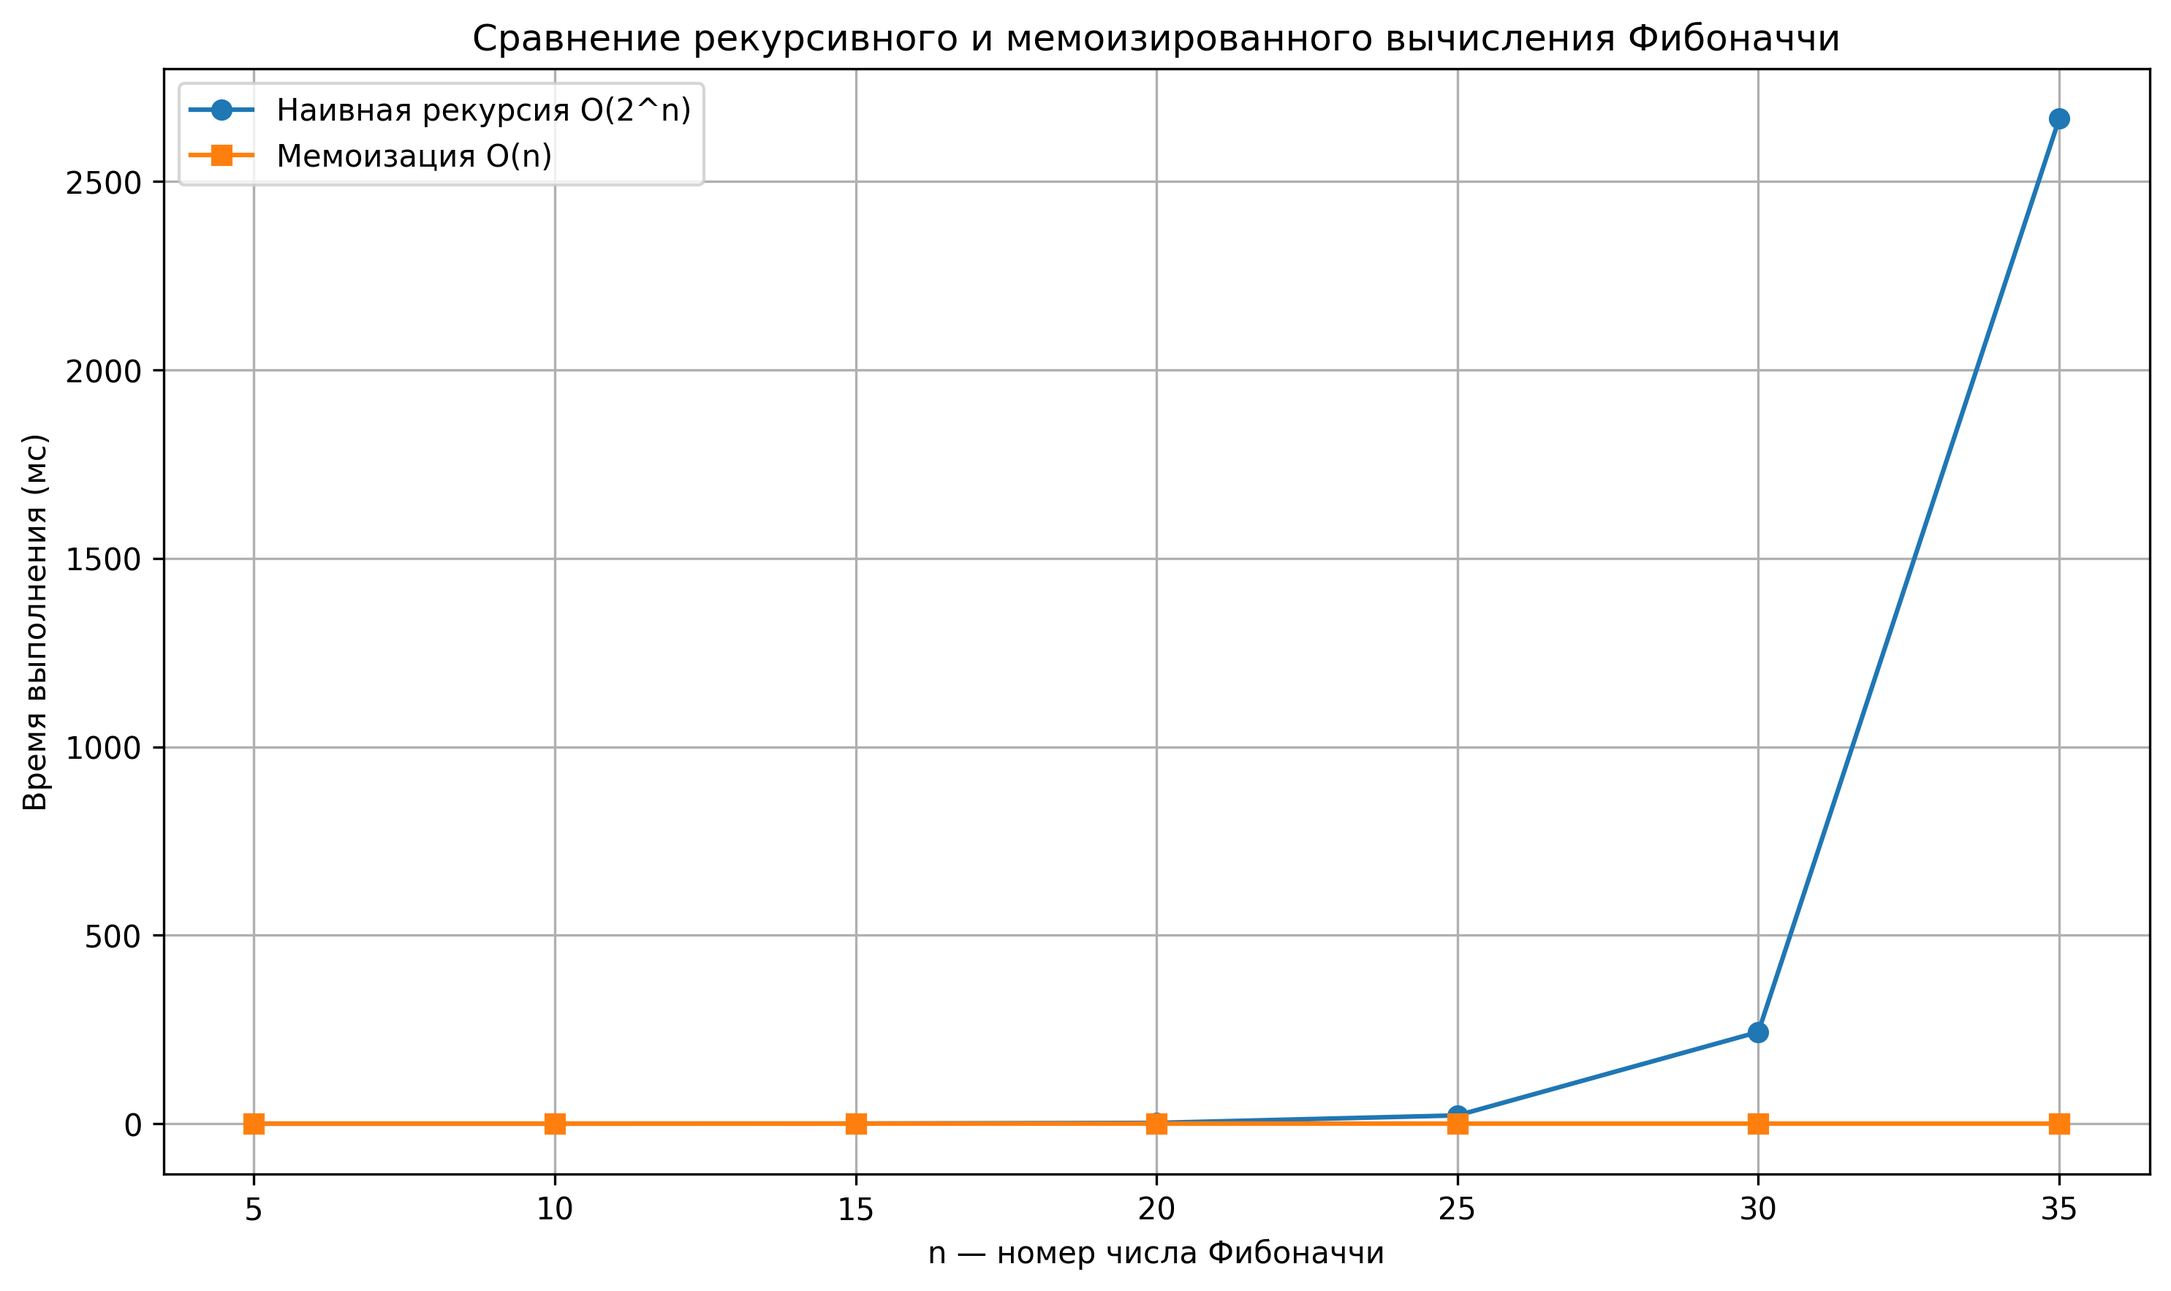
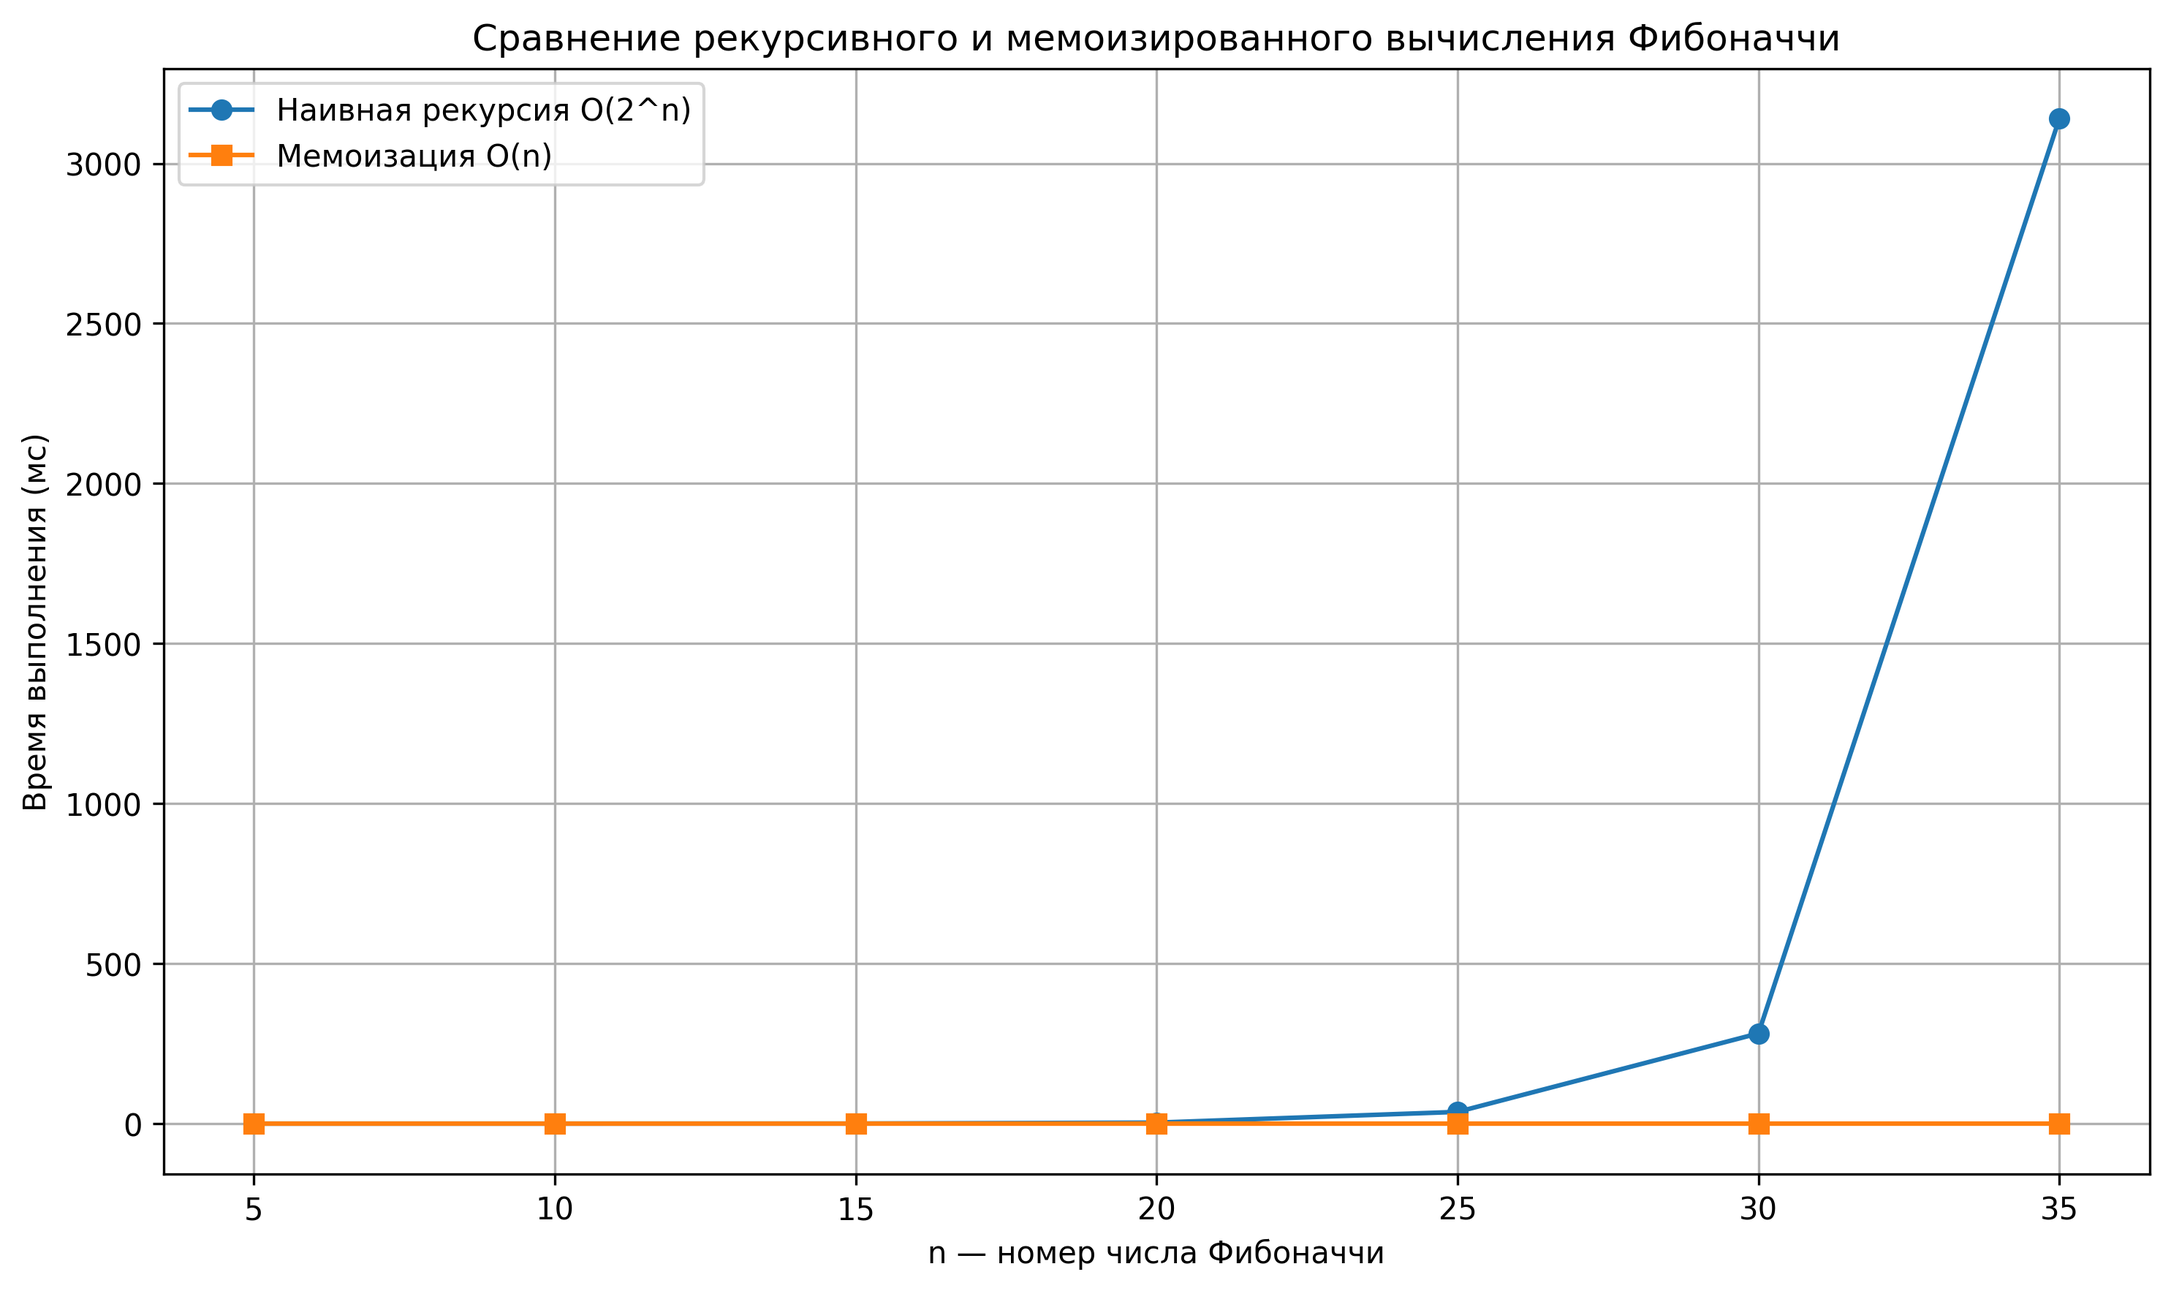
add readme

diff --git a/lab03/src/recursion_tasks.py b/lab03/src/recursion_tasks.py
@@ -1,0 +1,86 @@
+import os
+
+
+def binary_search_recursive(arr: list, target: int, left: int = 0, right: int = None) -> int:
+    """
+    Рекурсивный бинарный поиск элемента в отсортированном массиве.
+
+    Сложность: O(log n)
+    Глубина рекурсии: O(log n)
+    """
+    if right is None:
+        right = len(arr) - 1
+
+    if left > right:
+        return -1
+
+    mid = (left + right) // 2
+    guess = arr[mid]
+
+    if guess == target:
+        return mid
+    elif guess > target:
+        return binary_search_recursive(arr, target, left, mid - 1)
+    else:
+        return binary_search_recursive(arr, target, mid + 1, right)
+
+
+def traverse_directory(path: str, indent: int = 0):
+    """
+    Рекурсивный обход файлов и папок, начиная с указанного пути.
+    Выводит древовидную структуру каталога.
+
+    Сложность: O(n), где n — количество файлов/папок
+    Глубина рекурсии: равна глубине вложенности директорий
+    """
+    if not os.path.exists(path):
+        print("Путь не найден:", path)
+        return
+
+    items = os.listdir(path)
+
+    for item in items:
+        full_path = os.path.join(path, item)
+        print(" " * indent + ("📂 " if os.path.isdir(full_path) else "📄 ") + item)
+        if os.path.isdir(full_path):
+            traverse_directory(full_path, indent + 4)
+
+
+def hanoi(n: int, source: str, target: str, auxiliary: str, moves: list = None) -> list:
+    """
+    Рекурсивное решение задачи Ханойских башен.
+    Перемещает n дисков с source на target, используя auxiliary как вспомогательный стержень.
+
+    Сложность: O(2^n)
+    Глубина рекурсии: O(n)
+    """
+    if moves is None:
+        moves = []
+
+    if n == 1:
+        moves.append(f"Переместить диск 1 со стержня {source} на стержень {target}")
+        return moves
+
+    hanoi(n - 1, source, target, auxiliary, moves)
+    moves.append(f"Переместить диск {n} со стержня {source} на стержень {target}")
+    hanoi(n - 1, source, target, auxiliary, moves)
+
+    return moves
+
+
+if __name__ == "__main__":
+    print("Рекурсивный бинарный поиск:")
+    data = [1, 3, 5, 7, 9, 11, 13, 15]
+    target = 7
+    index = binary_search_recursive(data, target)
+    print(f"Искомый элемент {target} найден на позиции {index}")
+
+    print("\nРекурсивный обход файловой системы:")
+    test_path = ".."
+    traverse_directory(test_path)
+
+    print("\nХанойские башни (n = 3)")
+    moves = hanoi(3, "A", "C", "B")
+    for step in moves:
+        print(step)
+    print(f"Всего перемещений: {len(moves)} (ожидается 2^3 - 1 = 7)")

diff --git a/lab03/src/memoization.py b/lab03/src/memoization.py
@@ -4,8 +4,18 @@ import matplotlib.pyplot as plt
 from recursion import fibonacci
 
 
-def fibonacci_memo(n: int, cache: dict=None) -> int:
-    """Рекурсивное вычисление числа Фибоначчи с мемоизацией.
+pc_info = """
+Характеристики ПК для тестирования:
+- Процессор: 4 ядра
+- Оперативная память: 16 ГБ
+- ОС: Linux Mint
+- Python: 3.13.7
+"""
+
+
+def fibonacci_memo(n: int, cache: dict = None) -> int:
+    """
+    Рекурсивное вычисление числа Фибоначчи с мемоизацией.
     Временная сложность: O(n)
     Глубина рекурсии: O(n)
     """
@@ -37,7 +47,8 @@ def timer(func, arr: list) -> list:
 
 
 if __name__ == "__main__":
-    print("Сравнение производительности рекурсии и мемоизации:")
+    print(pc_info)
+    print("\nСравнение производительности рекурсии и мемоизации:")
 
     arr = [5, 10, 15, 20, 25, 30, 35]
     print("\nВычисляем времена выполнения (в миллисекундах):\n")

diff --git a/lab03/src/recursion.py b/lab03/src/recursion.py
@@ -32,6 +32,7 @@ def fibonacci(n: int) -> int:
     """
     if n <= 1:
         return n
+
     return fibonacci(n - 1) + fibonacci(n - 2)
 
 

diff --git a/lab03/README.md b/lab03/README.md
@@ -1,0 +1,189 @@
+# Отчет по лабораторной работе №3  
+# **Рекурсия**
+
+**Дата:** 2025-11-07  
+**Семестр:** 5  
+**Группа:** ПИЖ-б-о-23-1  
+**Дисциплина:** Анализ сложности алгоритмов  
+**Студент:** Иванов Юрий Сергеевич
+
+---
+
+## 🎯 Цель работы
+
+Освоить принцип рекурсии, изучить механизм работы стека вызовов и базовый случай, научиться анализировать сложность рекурсивных алгоритмов.  
+Освоить технику **мемоизации** для оптимизации вычислений и провести сравнительный анализ производительности рекурсивных решений.
+
+---
+
+## 🧠 Теоретическая часть
+
+**Рекурсия** — это метод решения задач, при котором функция вызывает саму себя, разбивая задачу на более простые подзадачи того же типа.
+
+### Основные понятия:
+- **Базовый случай** — условие, при котором рекурсия прекращается.  
+- **Рекурсивный шаг** — повторный вызов функции с упрощённым аргументом.  
+- **Глубина рекурсии** — количество активных вызовов, зависящее от структуры задачи.  
+- **Мемоизация** — сохранение результатов уже вычисленных вызовов функции для ускорения повторных вычислений.
+
+---
+
+## 💻 Практическая часть
+
+### Выполненные задачи
+
+- [x] Реализованы базовые рекурсивные алгоритмы:  
+  - Факториал числа  
+  - Числа Фибоначчи  
+  - Быстрое возведение в степень  
+- [x] Реализована мемоизация для чисел Фибоначчи  
+- [x] Проведено сравнение производительности (с мемоизацией и без)  
+- [x] Решены практические задачи:  
+  - Рекурсивный бинарный поиск  
+  - Рекурсивный обход файловой системы  
+  - Ханойские башни
+
+---
+
+## 🧩 Ключевые фрагменты кода
+
+### Рекурсивный расчет факториала
+```python
+def factorial(n: int) -> int:
+    """
+    Рекурсивное вычисление факториала числа n.
+    n! = n * (n-1) * (n-2) * ... * 1
+
+    Базовый случай: factorial(0) = 1
+    Рекурсивный шаг: factorial(n) = n * factorial(n-1)
+
+    Временная сложность: O(n)
+    Глубина рекурсии: O(n)
+    """
+    if n == 0 or n == 1:
+        return 1
+
+    return n * factorial(n - 1)
+````
+
+### Рекурсивное вычисление чисел Фибоначчи (наивное)
+
+```python
+def fibonacci(n: int) -> int:
+    """
+    Рекурсивное вычисление n-го числа Фибоначчи.
+    F(0) = 0, F(1) = 1, F(n) = F(n-1) + F(n-2)
+
+    Базовые случаи:
+      F(0) = 0
+      F(1) = 1
+    Рекурсивный шаг:
+      F(n) = F(n-1) + F(n-2)
+
+    Временная сложность: O(2^n)
+      (каждый вызов порождает два новых вызова)
+    Глубина рекурсии: O(n)
+    """
+    if n <= 1:
+        return n
+    
+    return fibonacci(n - 1) + fibonacci(n - 2)
+```
+
+### Мемоизированная версия Фибоначчи
+
+```python
+def fibonacci_memo(n: int, cache: dict = None) -> int:
+    """
+    Рекурсивное вычисление числа Фибоначчи с мемоизацией.
+    Временная сложность: O(n)
+    Глубина рекурсии: O(n)
+    """
+    if cache is None:
+        cache = {}
+
+    if n in cache:
+        return cache[n]
+
+    if n <= 1:
+        cache[n] = n
+    else:
+        cache[n] = fibonacci_memo(n - 1, cache) + fibonacci_memo(n - 2, cache)
+
+    return cache[n]
+```
+
+---
+
+## 📊 Результаты выполнения
+
+### Сравнение времени выполнения
+
+```bash
+    n     Наивная рекурсия        С мемоизацией
+--------------------------------------------------
+    5               0.0054               0.0127
+   10               0.0181               0.0062
+   15               0.1848               0.0066
+   20               3.1410               0.0082
+   25              36.6541               0.0129
+   30             281.8582               0.0122
+   35            3139.7746               0.0135
+```
+
+💡 Мемоизация уменьшила сложность с **O(2ⁿ)** до **O(n)** — более чем в 100 000 раз быстрее для n=35.
+
+---
+
+### Пример графика сравнения
+
+![recursion.png](results/recursion.png)
+
+---
+
+### Пример работы программы
+
+```bash
+Рекурсивный бинарный поиск:
+Искомый элемент 7 найден на позиции 3
+
+Рекурсивный обход файловой системы:
+📂 results
+    📄 recursion.png
+📂 src
+    📄 recursion_tasks.py
+    📂 __pycache__
+        📄 recursion.cpython-313.pyc
+    📄 recursion.py
+    📄 memoization.py
+📄 README.md
+
+Ханойские башни (n = 3)
+Переместить диск 1 со стержня A на стержень C
+Переместить диск 2 со стержня A на стержень C
+Переместить диск 1 со стержня A на стержень C
+Переместить диск 3 со стержня A на стержень C
+Переместить диск 1 со стержня A на стержень C
+Переместить диск 2 со стержня A на стержень C
+Переместить диск 1 со стержня A на стержень C
+Всего перемещений: 7 (ожидается 2^3 - 1 = 7)
+```
+
+---
+
+## 📈 Анализ результатов
+
+1. **Фибоначчи (наивная рекурсия)** демонстрирует экспоненциальный рост времени из-за повторных вызовов.
+2. **Мемоизация** уменьшает количество вызовов с экспоненциального до линейного уровня.
+3. **Ханойские башни** — классический пример экспоненциальной рекурсии (2ⁿ − 1 шагов).
+4. **Рекурсивный обход файловой системы** наглядно показывает работу стека вызовов и глубину рекурсии.
+
+---
+
+## ❓ Контрольные вопросы
+
+1. Что такое базовый случай и рекурсивный шаг? Почему отсутствие базового случая приводит к ошибке переполнения стека?
+2. Как работает мемоизация и как она изменяет временную сложность алгоритма Фибоначчи?
+3. Почему глубокая рекурсия может вызвать ошибку `RecursionError`?
+4. Опишите алгоритм решения задачи Ханойских башен для 3 дисков.
+5. Сравните преимущества и недостатки рекурсивных и итеративных решений.
